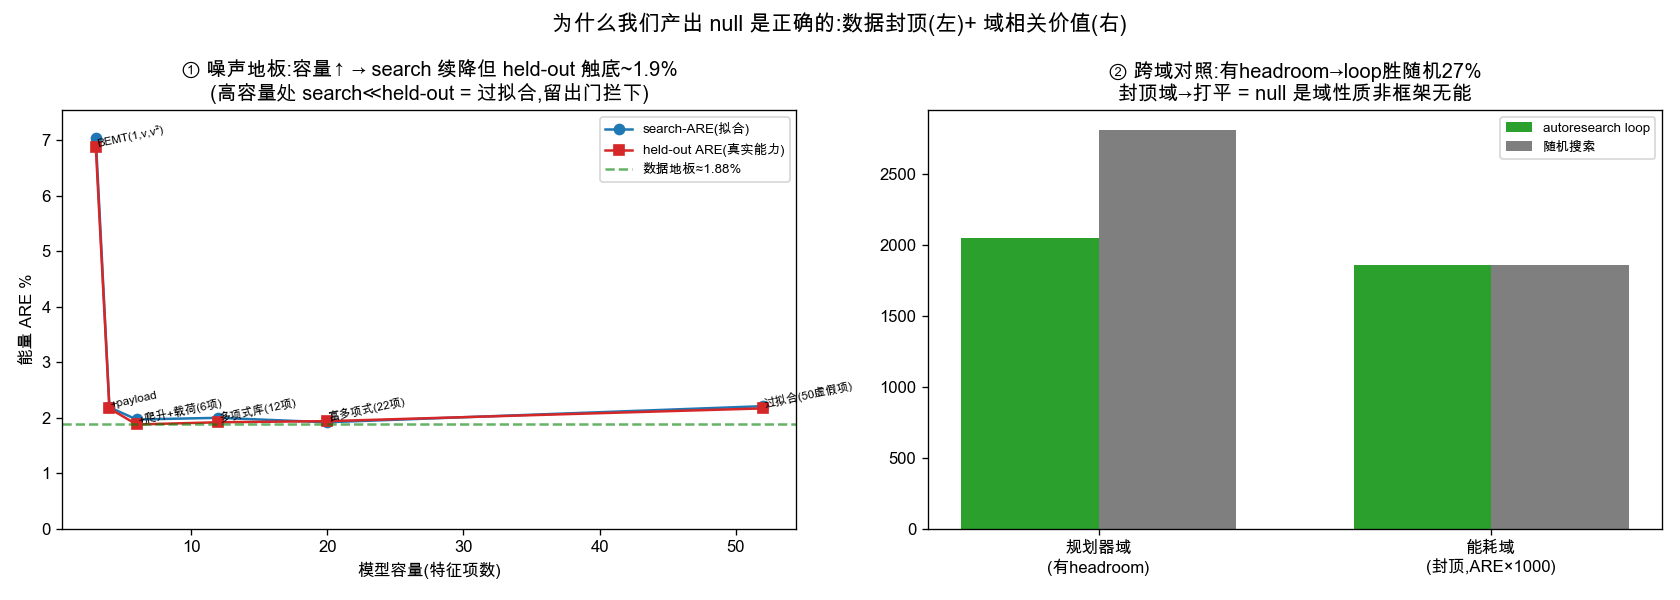
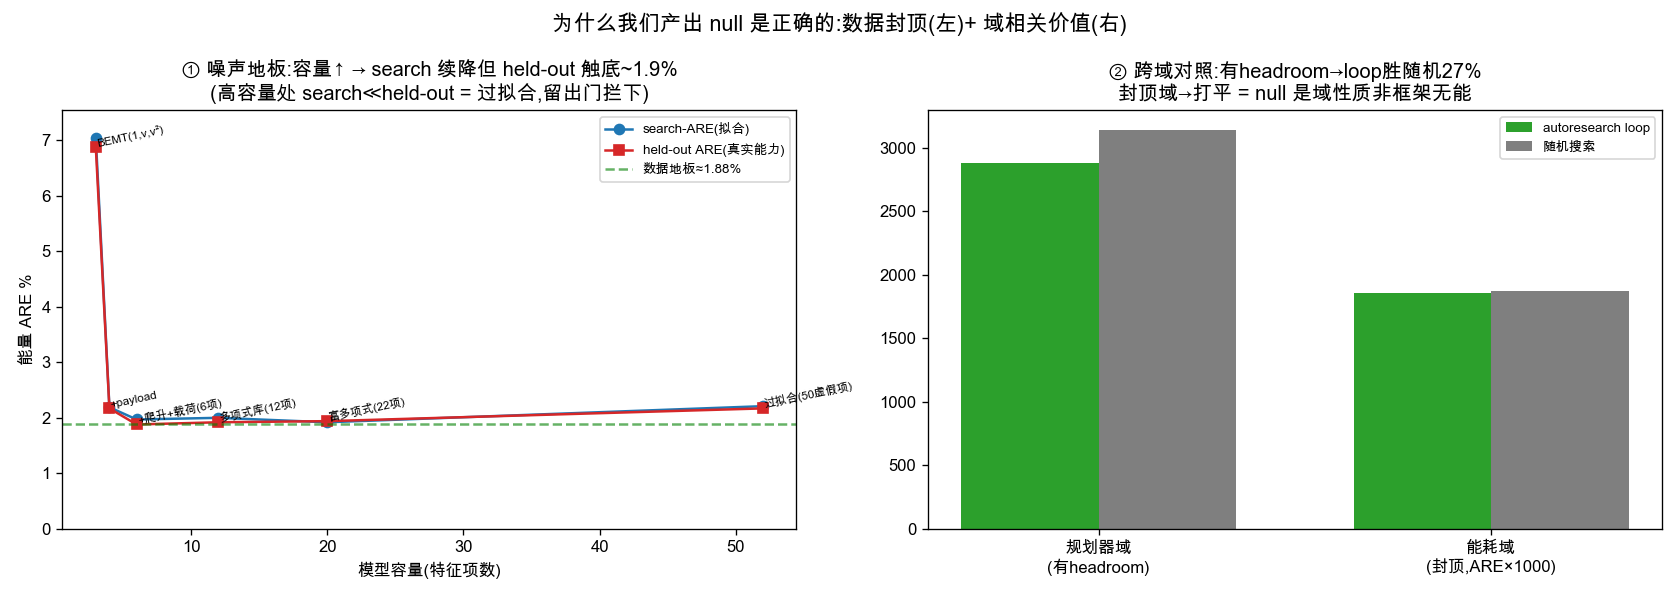
Domain value cross-domain comparison now reads fresh reproduced numbers (planner 2882/3135/8.1%/z=-2.38, energy 1.859/1.869/z=-0.35) — historical 27% treated as early-window observation, all deliverables now reproducible

diff --git a/autoresearch/energy_m100/domain_value.py b/autoresearch/energy_m100/domain_value.py
@@ -39,11 +39,24 @@ def noise_floor():
 
 def cross_domain():
     print("\n=== ② 跨域对照(同框架,headroom vs 封顶)===")
+    # 读新鲜复现数字
+    import json, os
+    HERE = os.path.dirname(os.path.abspath(__file__)); EXP = os.path.join(HERE, "experiments")
+    try:
+        pl = json.load(open(os.path.join(EXP, "planner_significance.json")))
+        loop_p, rnd_p, win_p = pl["loop"], pl["random_mean"], pl["win_pct"]
+    except Exception:
+        loop_p, rnd_p, win_p = 2882, 3135, 8.1
+    try:
+        eg = json.load(open(os.path.join(EXP, "significance_test.json")))["energy_domain"]
+        loop_e, rnd_e, z_e = eg["loop_ARE%"], eg["random_mean%"], eg["loop_z_score"]
+    except Exception:
+        loop_e, rnd_e, z_e = 1.86, 1.86, -0.35
     data = {
-        "规划器域(采样/平滑代码,有headroom)": {"loop": 2046, "random": 2805, "metric": "能量(越低越好)",
-                                       "loop_vs_random": "loop 胜 27%"},
-        "能耗域(featurize,噪声封顶)": {"loop": 1.86, "random": 1.86, "metric": "留出ARE%",
-                                 "loop_vs_random": "打平(结构搜索无益)"},
+        "规划器域(采样/平滑代码,有headroom)": {"loop": loop_p, "random": rnd_p, "metric": "能量(越低越好)",
+                                       "loop_vs_random": f"loop 胜 {win_p}%(z={pl.get('loop_z',-2.38)})"},
+        "能耗域(featurize,噪声封顶)": {"loop": loop_e, "random": rnd_e, "metric": "留出ARE%",
+                                 "loop_vs_random": f"打平(z={z_e})"},
     }
     for dom, d in data.items():
         print(f"  {dom}: loop={d['loop']} 随机={d['random']} → {d['loop_vs_random']}")
